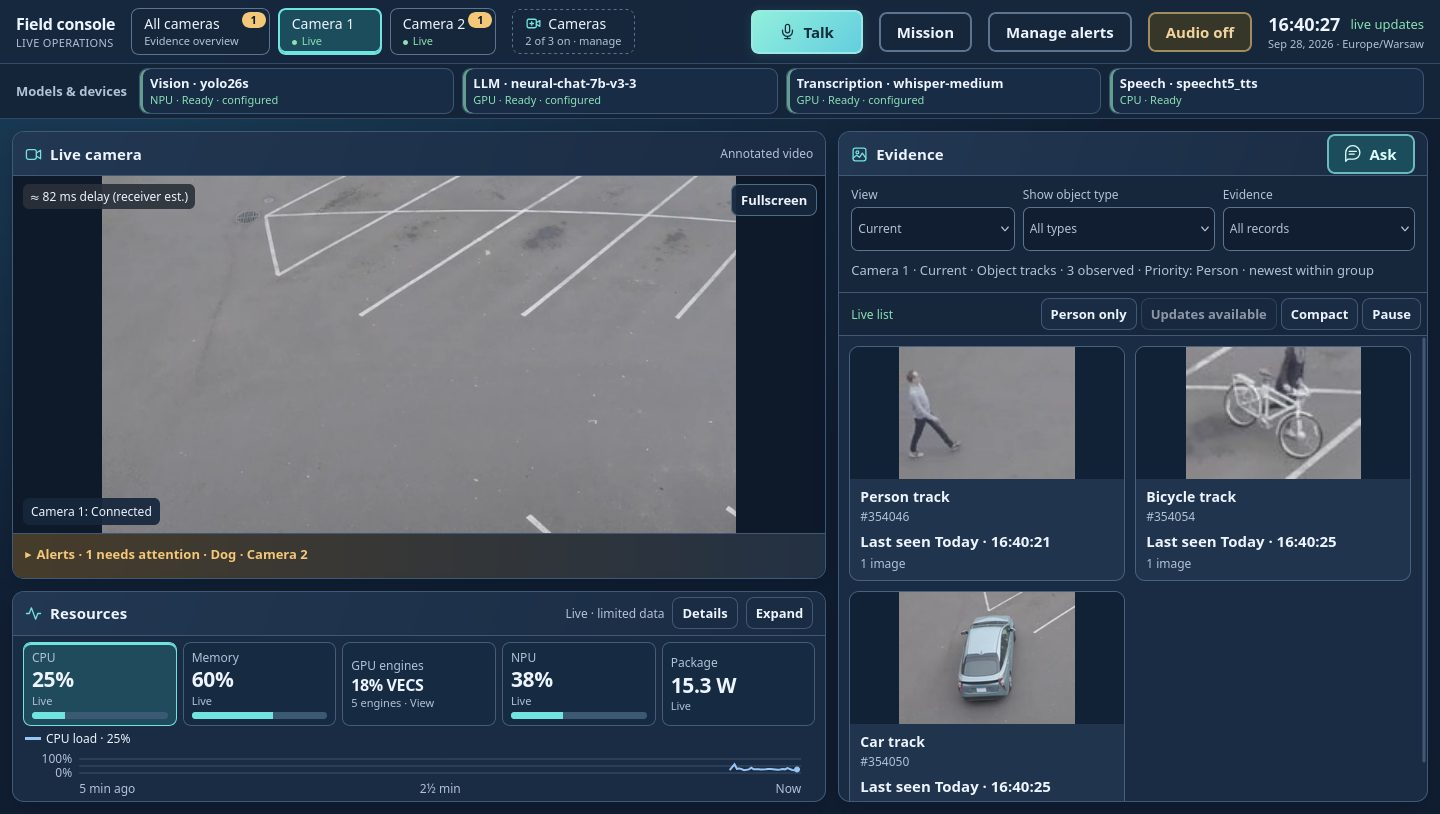
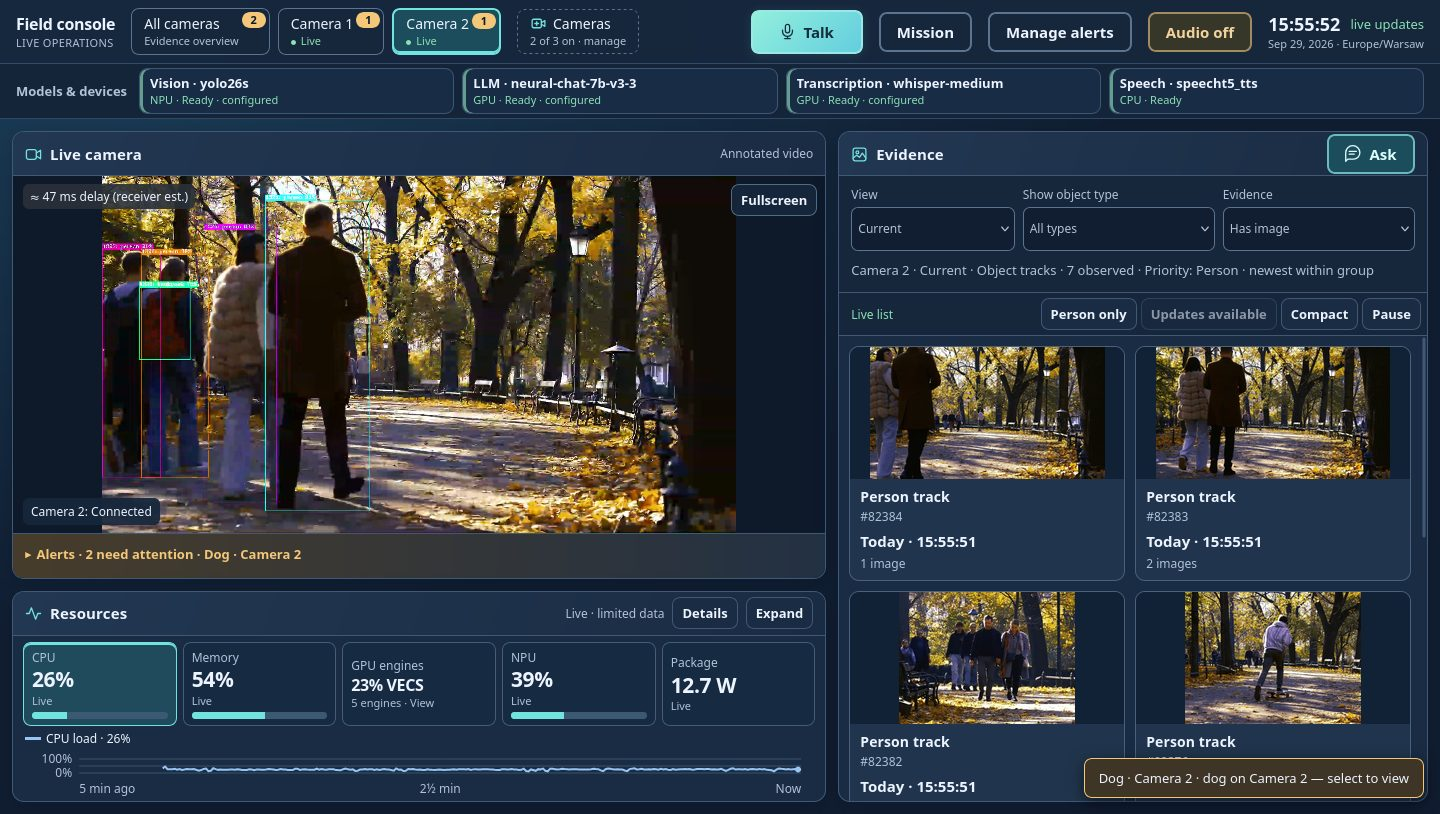
README: screenshot with detections and links to Open Edge Platform services
- Replace the overview screenshot with one showing live detection boxes,
  an evidence grid with images and an alert.
- Link each reused Open Edge Platform service to its source in
  edge-ai-libraries at release-2026.2.0.

diff --git a/handheld-multi-modal/README.md b/handheld-multi-modal/README.md
@@ -5,7 +5,7 @@ analytics, evidence search, mission documents, alerts and speech. It runs
 entirely on the device, built from unmodified Open Edge Platform
 `release-2026.2.0` components plus an application Backend and browser UI.
 
-![Operator UI: live annotated camera, detected object tracks with evidence images, model placement and resource telemetry](docs/images/operator-ui.jpg)
+![Operator UI: live camera with detection boxes, object tracks with evidence images, an alert, model placement and resource telemetry](docs/images/operator-ui.jpg)
 
 ## What it does
 
@@ -47,13 +47,13 @@ images, pinned in `compose/handheld-multi-modal.yaml`):
 
 | Service | Image | Role here |
 |---|---|---|
-| DL Streamer Pipeline Server | `intel/dlstreamer-pipeline-server:2026.2.0-ubuntu24` | YOLO26s INT8 detection (NPU) and tracking per camera, annotated WebRTC, MQTT observations, evidence crops |
-| Chat Question-and-Answer Core | `intel/chatqna:core_gpu_2026.2.0` | Mission documents and general answers: `Intel/neural-chat-7b-v3-3` (GPU), `granite-embedding-125m-english`, `ms-marco-electra-base` reranker |
-| Audio Analyzer | `intel/audio-analyzer:2026.2.0` | Speech-to-text, Whisper-medium FP16 on the GPU |
-| Text To Speech | `intel/text-to-speech:2026.2.0` | Spoken alerts and answers, SpeechT5 (CPU default, GPU option) |
-| Alert Agent | `intel/alert-agent-service:2026.2.0` | Alert dispatch in rule mode (no LLM in the alert path) |
-| Metrics Manager | `intel/metrics-manager:2026.2.0` | CPU, memory, GPU, NPU and power telemetry |
-| Model Download | `intel/model-download:2026.2.0` | Prepares the YOLO26s INT8 OpenVINO IR (first start only) |
+| [DL Streamer Pipeline Server](https://github.com/open-edge-platform/edge-ai-libraries/tree/release-2026.2.0/microservices/dlstreamer-pipeline-server) | `intel/dlstreamer-pipeline-server:2026.2.0-ubuntu24` | YOLO26s INT8 detection (NPU) and tracking per camera, annotated WebRTC, MQTT observations, evidence crops |
+| [Chat Question-and-Answer Core](https://github.com/open-edge-platform/edge-ai-libraries/tree/release-2026.2.0/sample-applications/chat-question-and-answer-core) | `intel/chatqna:core_gpu_2026.2.0` | Mission documents and general answers: `Intel/neural-chat-7b-v3-3` (GPU), `granite-embedding-125m-english`, `ms-marco-electra-base` reranker |
+| [Audio Analyzer](https://github.com/open-edge-platform/edge-ai-libraries/tree/release-2026.2.0/microservices/audio-analyzer) | `intel/audio-analyzer:2026.2.0` | Speech-to-text, Whisper-medium FP16 on the GPU |
+| [Text To Speech](https://github.com/open-edge-platform/edge-ai-libraries/tree/release-2026.2.0/microservices/text-to-speech) | `intel/text-to-speech:2026.2.0` | Spoken alerts and answers, SpeechT5 (CPU default, GPU option) |
+| [Alert Agent](https://github.com/open-edge-platform/edge-ai-libraries/tree/release-2026.2.0/microservices/alert-agent-service) | `intel/alert-agent-service:2026.2.0` | Alert dispatch in rule mode (no LLM in the alert path) |
+| [Metrics Manager](https://github.com/open-edge-platform/edge-ai-libraries/tree/release-2026.2.0/microservices/metrics-manager) | `intel/metrics-manager:2026.2.0` | CPU, memory, GPU, NPU and power telemetry |
+| [Model Download](https://github.com/open-edge-platform/edge-ai-libraries/tree/release-2026.2.0/microservices/model-download) | `intel/model-download:2026.2.0` | Prepares the YOLO26s INT8 OpenVINO IR (first start only) |
 
 **Third-party open-source services** (pinned upstream images):
 
